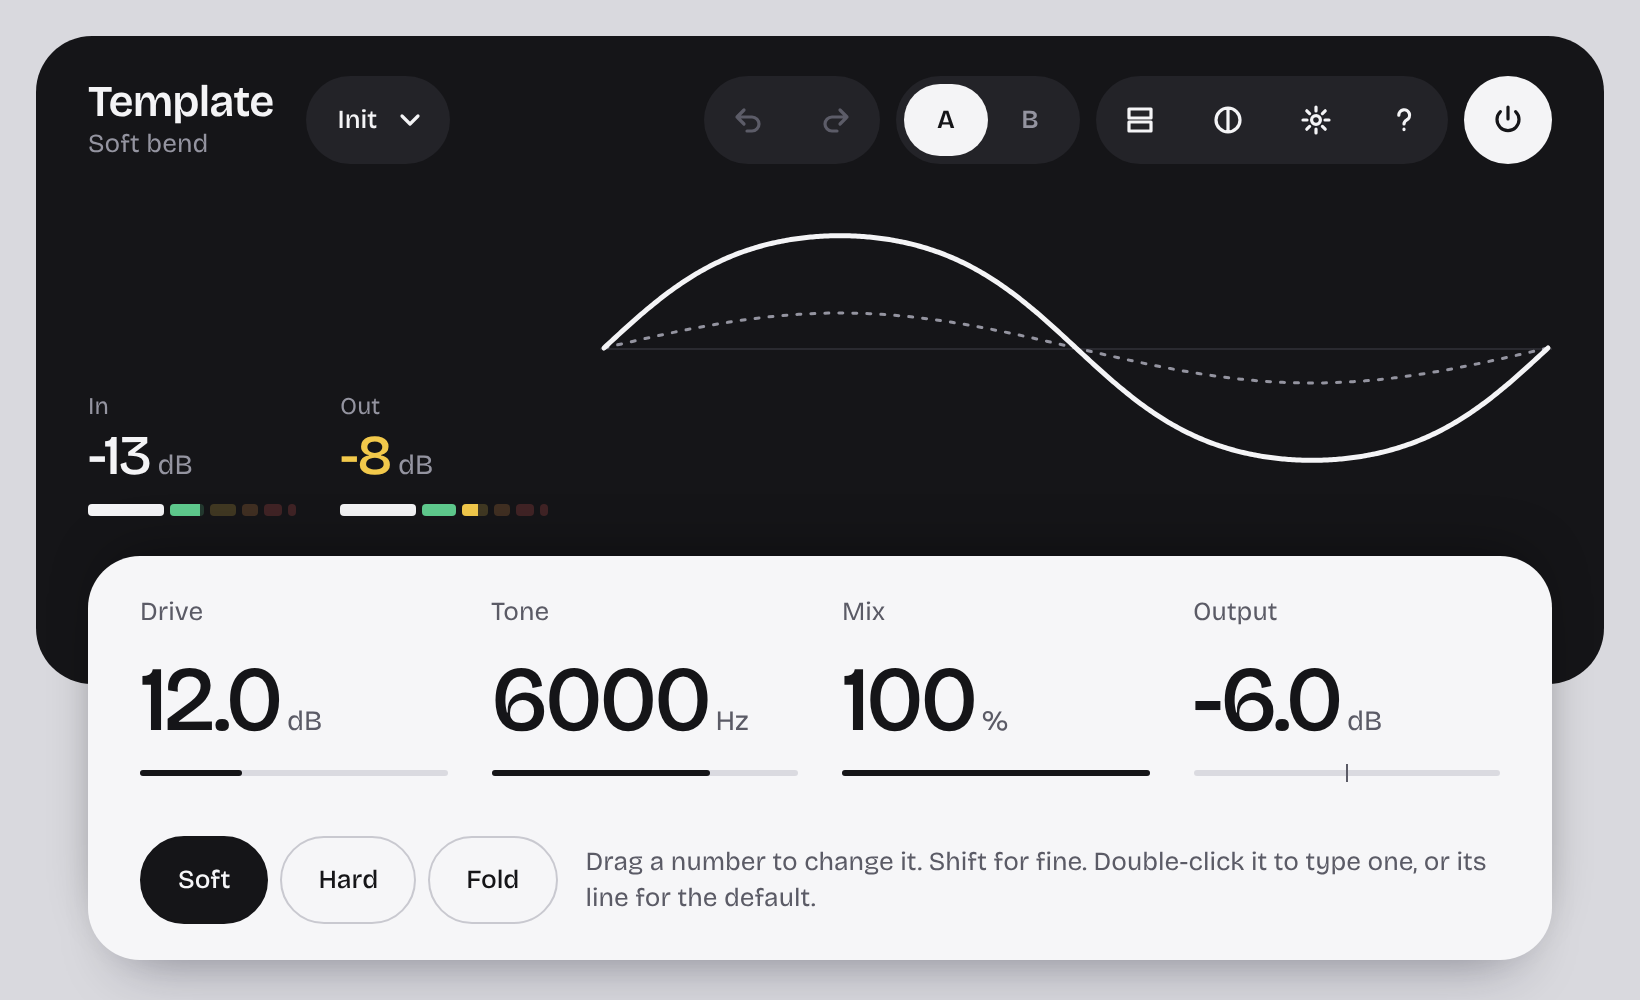
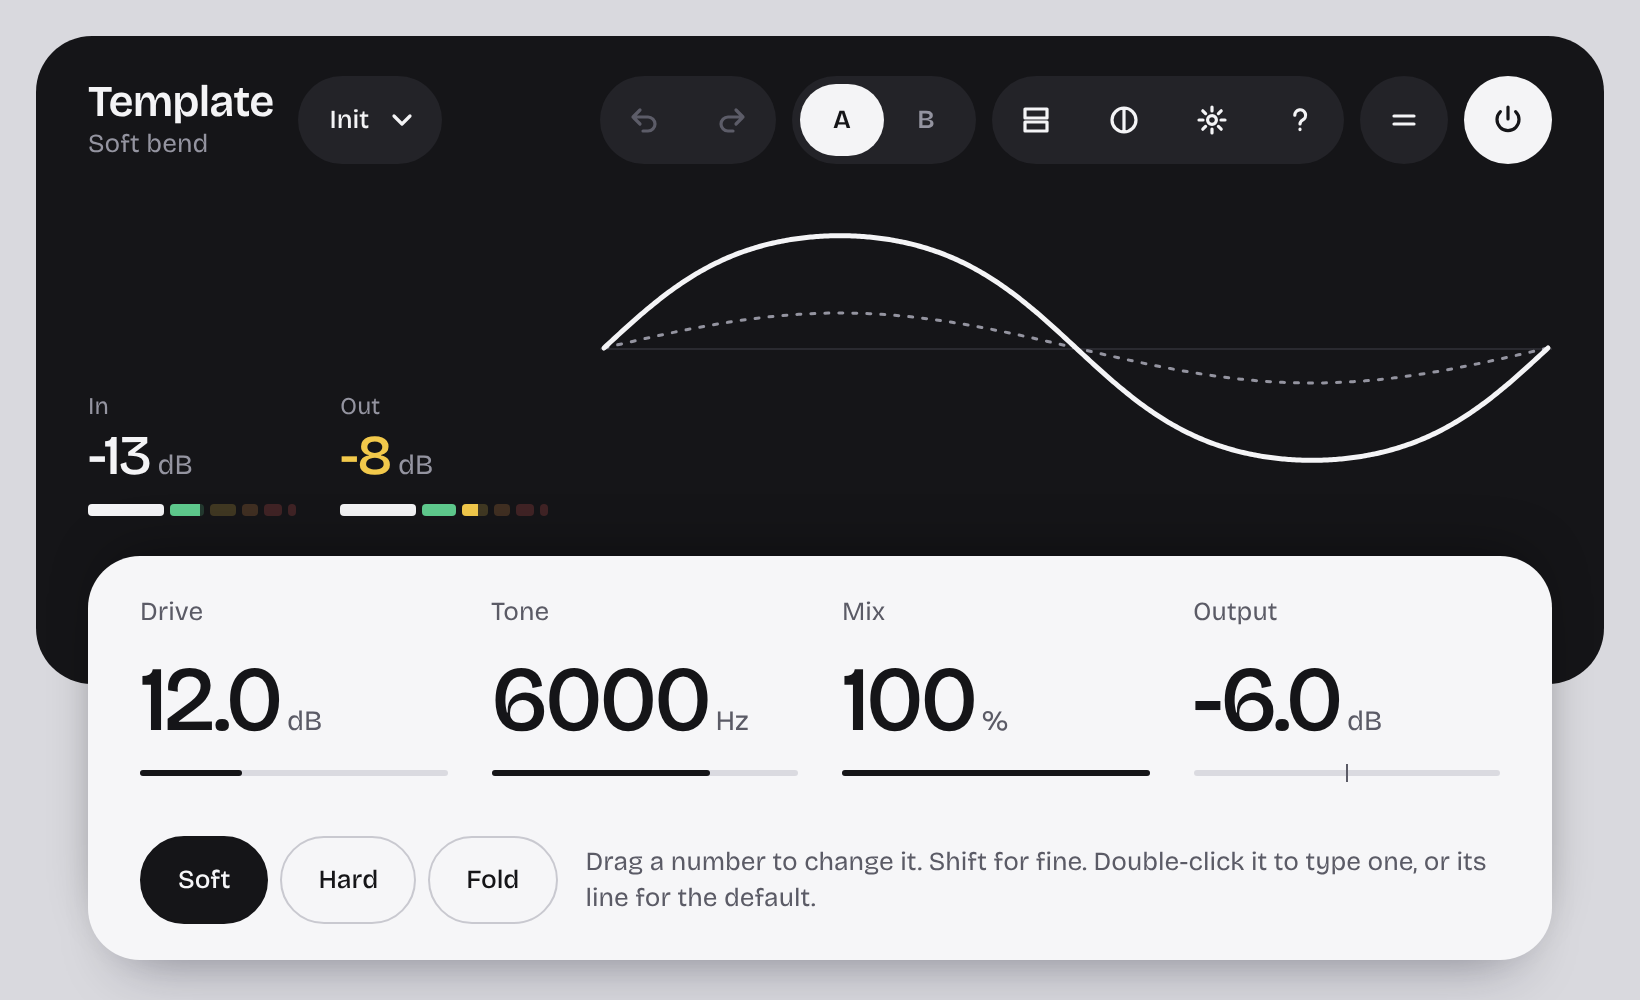
Template: the kit's Mix, and level matching
Claude-Session: https://claude.ai/code/session_01LsEv5JJ6sX3X7Qe9Tsco2Y

diff --git a/plugins/template/src/lib.rs b/plugins/template/src/lib.rs
@@ -5,7 +5,7 @@
 
 use kit::level::{db_to_gain, peak, to_fraction};
 use kit::{Asset, Block, Info, Param, Plugin, Role, list, meter, range};
-use kit_dsp::{Smooth, Svf};
+use kit_dsp::{Match, Smooth, Svf};
 
 // Indexes into PARAMS, for `Block`.
 pub const DRIVE: usize = 0;
@@ -14,6 +14,7 @@ pub const TONE: usize = 2;
 pub const MIX: usize = 3;
 pub const OUTPUT: usize = 4;
 pub const BYPASS: usize = 5;
+pub const MATCH: usize = 6;
 // Indexes into METERS.
 pub const LEVEL: usize = 0;
 pub const INPUT: usize = 1;
@@ -31,6 +32,7 @@ pub struct Template {
     drive: Smooth,
     tone: Smooth,
     mix: Smooth,
+    matcher: Match,
     output: Smooth,
 }
 
@@ -86,14 +88,13 @@ impl Plugin for Template {
             .skew(3.0)
             .decimals(0)
             .about("Where the low-pass after the shaper starts to cut"),
-        range(3, "mix", "Mix", "Output", (0.0, 100.0, 100.0), "%")
-            .decimals(0)
-            .about("How much of the shaped signal against the dry one"),
+        kit::mix(3),
         range(4, "output", "Output", "Output", (-24.0, 12.0, -6.0), "dB")
             .decimals(1)
             .about("Level after everything else"),
         // Ids 5 and 6 are the meters'.
         kit::bypass(7),
+        kit::level_match(8),
     ];
 
     const METERS: &'static [Param] = &[meter(5, "level", "Out"), meter(6, "input", "In")];
@@ -111,6 +112,7 @@ impl Plugin for Template {
             drive: Smooth::new(0.0, EASE_MS, rate),
             tone: Smooth::new(0.0, EASE_MS, rate),
             mix: Smooth::new(0.0, EASE_MS, rate),
+            matcher: Match::new(rate),
             output: Smooth::new(0.0, EASE_MS, rate),
         }
     }
@@ -122,6 +124,7 @@ impl Plugin for Template {
         self.drive = Smooth::new(db_to_gain(at(DRIVE)), EASE_MS, rate);
         self.tone = Smooth::new(at(TONE), EASE_MS, rate);
         self.mix = Smooth::new(at(MIX) / 100.0, EASE_MS, rate);
+        self.matcher = Match::new(rate);
         self.output = Smooth::new(db_to_gain(at(OUTPUT)), EASE_MS, rate);
     }
 
@@ -135,6 +138,7 @@ impl Plugin for Template {
         let mix = block.value(MIX) / 100.0;
         let output = db_to_gain(block.value(OUTPUT));
         let shape = block.choice(SHAPE);
+        let matching = block.choice(MATCH) == 1;
 
         let mut loudest = 0.0f32;
         let mut heard = 0.0f32;
@@ -145,13 +149,23 @@ impl Plugin for Template {
             // Each setting eased once a sample, the same for both sides.
             let (drive, mix) = (self.drive.next(drive), self.mix.next(mix));
             let (tone, output) = (self.tone.next(tone), self.output.next(output));
-            for ch in 0..block.outputs().min(2) {
-                let (input, out) = block.io(ch);
-                let dry = input.get(i).copied().unwrap_or(0.0);
+            let (mut heard_now, mut made) = (0.0, 0.0);
+            let mut mixed = [0.0f32; 2];
+            let sides = block.outputs().min(2);
+            for (ch, mixed) in mixed.iter_mut().enumerate().take(sides) {
+                let dry = block.input(ch).get(i).copied().unwrap_or(0.0);
                 let filter = &mut self.filters[ch];
                 filter.set(tone, 0.707);
                 let wet = filter.next(shaped(shape, dry * drive)).low;
-                out[i] = (dry + (wet - dry) * mix) * output;
+                *mixed = dry + (wet - dry) * mix;
+                heard_now += dry * dry;
+                made += *mixed * *mixed;
+            }
+            // Matched to what came in before the output trim, which is
+            // then the person's own to set on top.
+            let gain = self.matcher.next(heard_now, made, matching) * output;
+            for (ch, mixed) in mixed.iter().enumerate().take(sides) {
+                block.output(ch)[i] = mixed * gain;
             }
         }
         for ch in 0..block.outputs() {

diff --git a/plugins/template/tests/sound.rs b/plugins/template/tests/sound.rs
@@ -114,3 +114,39 @@ fn a_moved_setting_is_eased_not_jumped() {
     assert!(step < 0.01, "the biggest step between samples was {step}");
     assert!(out[4799] < 0.05, "and it got there: {}", out[4799]);
 }
+
+#[test]
+fn matched_it_goes_out_as_loud_as_it_came_in_whatever_the_drive() {
+    let tone: Vec<f32> = (0..RATE as usize * 3)
+        .map(|i| 0.25 * (i as f32 * 0.03).sin())
+        .collect();
+    let last = |x: &[f32]| rms(&x[x.len() - RATE as usize..]);
+    let came = last(&tone);
+
+    for drive in [0.0, 18.0, 36.0] {
+        let settings = [(DRIVE, drive), (OUTPUT, 0.0)];
+        let loose = last(&settled(&mut with(&settings), &tone));
+        let matched = [settings.as_slice(), &[(template::MATCH, 1.0)]].concat();
+        let held = last(&settled(&mut with(&matched), &tone));
+
+        assert!(
+            (held / came - 1.0).abs() < 0.03,
+            "{drive} dB: {held} for {came}"
+        );
+        // Left alone, driving it is simply louder: that is what
+        // matching is for.
+        assert!(drive == 0.0 || loose > came * 1.5, "{drive} dB: {loose}");
+    }
+}
+
+#[test]
+fn the_output_trim_is_still_the_persons_own_on_top_of_matching() {
+    let tone: Vec<f32> = (0..RATE as usize * 3)
+        .map(|i| 0.25 * (i as f32 * 0.03).sin())
+        .collect();
+    let last = |x: &[f32]| rms(&x[x.len() - RATE as usize..]);
+    let settings = [(DRIVE, 24.0), (OUTPUT, -6.0), (template::MATCH, 1.0)];
+    let held = last(&settled(&mut with(&settings), &tone));
+
+    assert!((held / last(&tone) - 0.501).abs() < 0.02, "{held}");
+}

diff --git a/plugins/template/docs/manual.md b/plugins/template/docs/manual.md
@@ -3,7 +3,7 @@
 Template pushes a signal into a shaper, takes the top off what comes
 out, and mixes it back against the dry signal. It is the plugin every
 new one in this repo starts as, so it is small on purpose: three
-stages, five settings, a bypass and two meters.
+stages, five settings, a bypass, level matching and two meters.
 
 ![The editor at its defaults](images/editor.png)
 
@@ -134,6 +134,13 @@ and stays lit until you click it: bring Output down.
 the top right, and your host's own bypass for the plugin: the two are
 the same setting. Going in and out takes a hundredth of a second, so
 it can be automated without a click.
+
+**Match** holds the level going out to the level coming in, so that
+when you change a setting you hear what it does to the tone and are
+not fooled by it simply being louder. It is the button with two bars
+beside On. It works on the level before Output, so Output is still
+yours to set on top, and it moves slowly, over a few tenths of a
+second, so it never pumps. It reaches at most 24 dB either way.
 
 ## Troubleshooting
 
